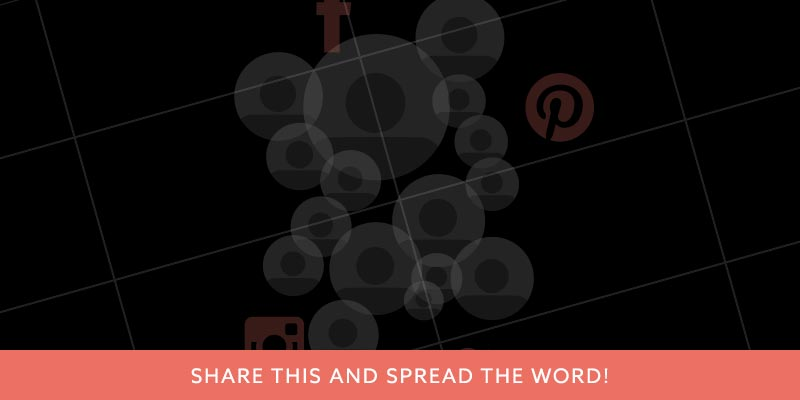
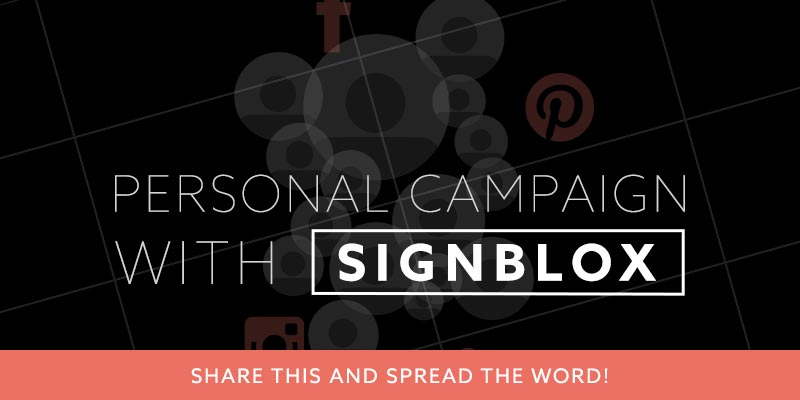
Minor css change.

diff --git a/styles.css b/styles.css
@@ -30,6 +30,13 @@ body {
   height: 100%;
   background-size: cover;
 }
+.message {
+  color: #fff;
+  font-size: 25px;
+  font-weight: 100;
+  text-transform: uppercase;
+  text-align: center;
+}
 .info {
   display: block;
   width: 100%;
